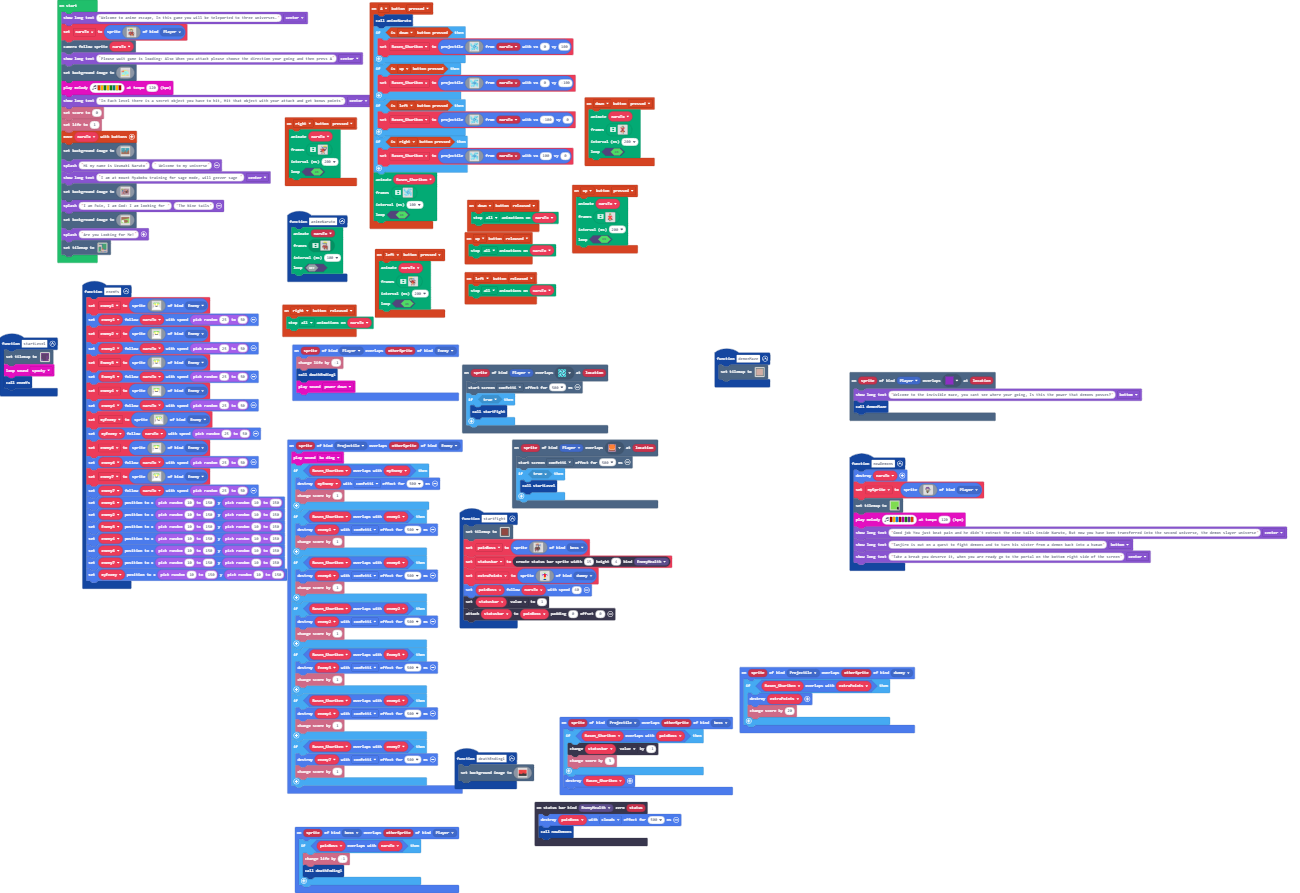
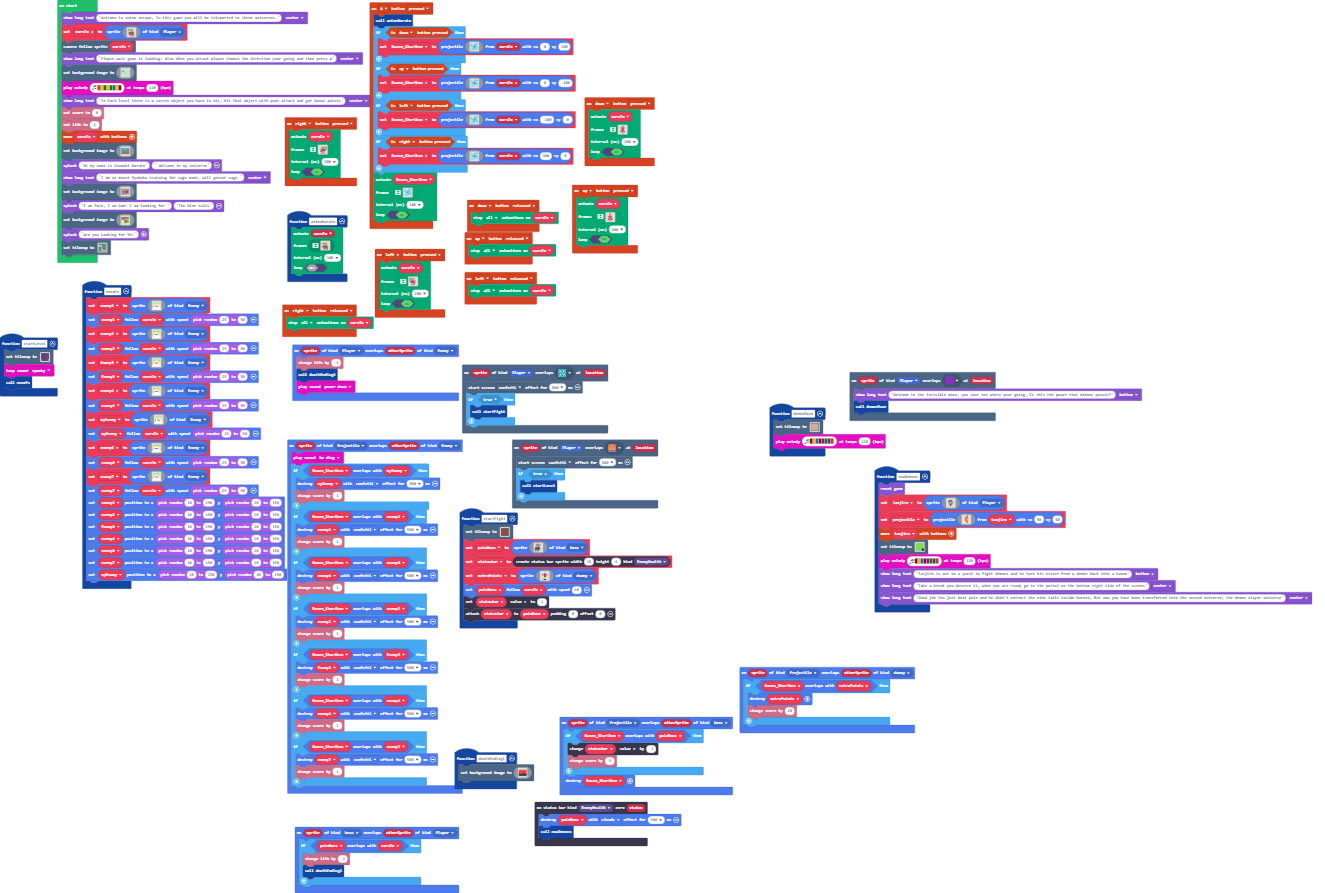
Update main.blocks, main.ts, images.g.jres, images.g.ts, tilemap.g.jres, tilemap.g.ts

diff --git a/tilemap.g.ts b/tilemap.g.ts
@@ -386,6 +386,44 @@ namespace myTiles {
 . . . . . . . . . . . . . . . . 
 . . . . . . . . . . . . . . . . 
 `, [myTiles.transparency16,sprites.castle.tileGrass1,myTiles.tile7,myTiles.tile8,sprites.castle.tileGrass2], TileScale.Sixteen);
+            case "level20":
+            case "level20":return tiles.createTilemap(hex`1000100000000000000000000000000000000000000000000000000000000000000000000000000000000000000000000000000000000000000000000000000000000000000000000000000000000000000000000000000000000000000000000000000000000000000000000000000000000000000000000000000000000000000000000000000000000000000000000000000000000000000000000000000000000000000000000000000000000000000000000000000000000000000000000000000000000000000000000000000000000000000000000000000000000000000000000000000000000000000000000000000000000000000000000000000000000000`, img`
+. . . . . . . . . . . . . . . . 
+. . . . . . . . . . . . . . . . 
+. . . . . . . . . . . . . . . . 
+. . . . . . . . . . . . . . . . 
+. . . . . . . . . . . . . . . . 
+. . . . . . . . . . . . . . . . 
+. . . . . . . . . . . . . . . . 
+. . . . . . . . . . . . . . . . 
+. . . . . . . . . . . . . . . . 
+. . . . . . . . . . . . . . . . 
+. . . . . . . . . . . . . . . . 
+. . . . . . . . . . . . . . . . 
+. . . . . . . . . . . . . . . . 
+. . . . . . . . . . . . . . . . 
+. . . . . . . . . . . . . . . . 
+. . . . . . . . . . . . . . . . 
+`, [myTiles.transparency16], TileScale.Sixteen);
+            case "level21":
+            case "level21":return tiles.createTilemap(hex`1000100000000000000000000000000000000000000000000000000000000000000000000000000000000000000000000000000000000000000000000000000000000000000000000000000000000000000000000000000000000000000000000000000000000000000000000000000000000000000000000000000000000000000000000000000000000000000000000000000000000000000000000000000000000000000000000000000000000000000000000000000000000000000000000000000000000000000000000000000000000000000000000000000000000000000000000000000000000000000000000000000000000000000000000000000000000000`, img`
+. . . . . . . . . . . . . . . . 
+. . . . . . . . . . . . . . . . 
+. . . . . . . . . . . . . . . . 
+. . . . . . . . . . . . . . . . 
+. . . . . . . . . . . . . . . . 
+. . . . . . . . . . . . . . . . 
+. . . . . . . . . . . . . . . . 
+. . . . . . . . . . . . . . . . 
+. . . . . . . . . . . . . . . . 
+. . . . . . . . . . . . . . . . 
+. . . . . . . . . . . . . . . . 
+. . . . . . . . . . . . . . . . 
+. . . . . . . . . . . . . . . . 
+. . . . . . . . . . . . . . . . 
+. . . . . . . . . . . . . . . . 
+. . . . . . . . . . . . . . . . 
+`, [myTiles.transparency16], TileScale.Sixteen);
         }
         return null;
     })

diff --git a/main.ts b/main.ts
@@ -4,6 +4,7 @@ namespace SpriteKind {
 }
 function demonMaze () {
     tiles.setTilemap(tilemap`level19`)
+    music.playMelody("C5 A E C5 C G D B ", 120)
 }
 controller.up.onEvent(ControllerButtonEvent.Pressed, function () {
     animation.runImageAnimation(
@@ -409,13 +410,15 @@ function startLevel () {
     enemYs()
 }
 function nowDemons () {
-    naruTo.destroy()
-    mySprite = sprites.create(assets.image`Tanjiro`, SpriteKind.Player)
+    game.reset()
+    tanjiro = sprites.create(assets.image`Tanjiro`, SpriteKind.Player)
+    projectile = sprites.createProjectileFromSprite(assets.image`Tanji Attack`, tanjiro, 50, 50)
+    controller.moveSprite(tanjiro)
     tiles.setTilemap(tilemap`level18`)
     music.playMelody("C5 A E C5 C G D B ", 120)
-    game.showLongText("Good job You just beat pain and he didn't extract the nine tails inside Naruto, But now you have been transferred into the second universe, the demon slayer universe", DialogLayout.Center)
     game.showLongText("Tanjiro is out on a quest to fight demons and to turn his sister from a demon back into a human", DialogLayout.Bottom)
     game.showLongText("Take a break you deserve it, when you are ready go to the portal on the bottom right side of the screen", DialogLayout.Center)
+    game.showLongText("Good job You just beat pain and he didn't extract the nine tails inside Naruto, But now you have been transferred into the second universe, the demon slayer universe", DialogLayout.Center)
 }
 sprites.onOverlap(SpriteKind.Projectile, SpriteKind.Enemy, function (sprite, otherSprite) {
     music.baDing.play()
@@ -459,7 +462,8 @@ sprites.onOverlap(SpriteKind.Player, SpriteKind.Enemy, function (sprite, otherSp
     deathEnding1()
     music.powerDown.play()
 })
-let mySprite: Sprite = null
+let projectile: Sprite = null
+let tanjiro: Sprite = null
 let statusbar: StatusBarSprite = null
 let extraPoints: Sprite = null
 let painBoss: Sprite = null

diff --git a/images.g.ts b/images.g.ts
@@ -158,22 +158,6 @@ namespace myImages {
 ..f..21f11....1ff1.....f..
 .....21112....1f1f........
 `;
-            case "image2":
-            case "Tanji Attack":return img`
-. . . . 4 2 . 
-. 1 1 4 4 2 . 
-1 1 4 4 2 2 . 
-1 4 4 2 2 2 . 
-1 4 2 2 1 2 . 
-1 4 2 4 2 1 . 
-1 4 2 1 4 2 . 
-1 4 2 2 4 1 . 
-1 4 4 2 2 4 . 
-1 1 4 4 2 2 . 
-. 1 1 4 4 2 . 
-. . . . 4 2 . 
-. . . . . . . 
-`;
             case "image5":
             case "Pain projectile":return img`
 ........................................
@@ -251,6 +235,22 @@ namespace myImages {
 ........................................
 ........................................
 ........................................
+`;
+            case "image2":
+            case "Tanji Attack":return img`
+. . . . 4 2 . 
+. 1 1 4 4 2 . 
+1 1 4 4 2 2 . 
+1 4 4 2 2 2 . 
+1 4 2 2 1 2 . 
+1 4 2 4 2 1 . 
+1 4 2 1 4 2 . 
+1 4 2 2 4 1 . 
+1 4 4 2 2 4 . 
+1 1 4 4 2 2 . 
+. 1 1 4 4 2 . 
+. . . . 4 2 . 
+. . . . . . . 
 `;
         }
         return null;
